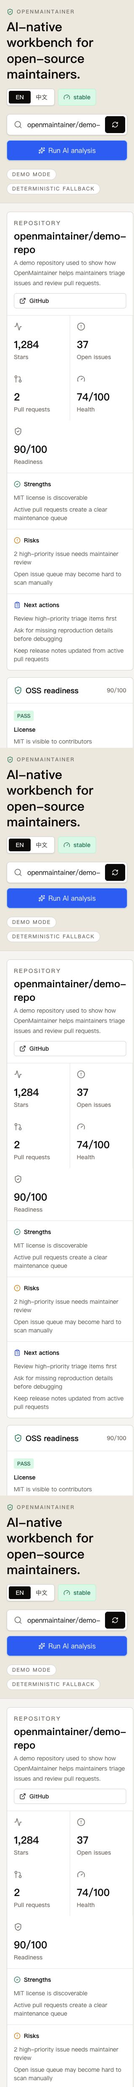
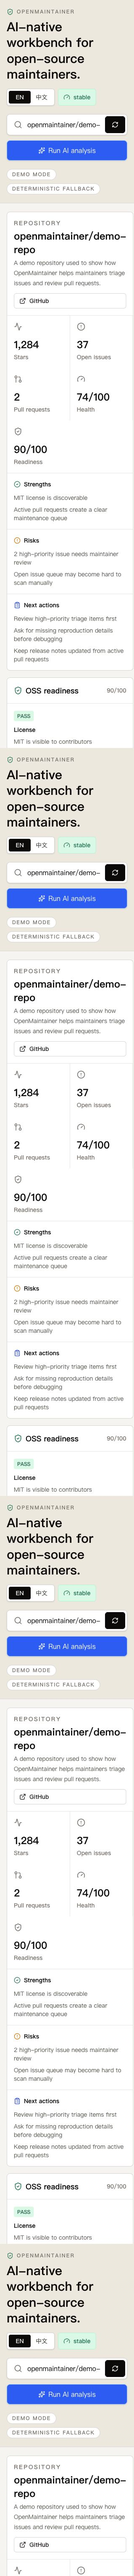
feat: add copyable maintainer action plan

diff --git a/src/components/dashboard.tsx b/src/components/dashboard.tsx
@@ -48,6 +48,7 @@ const copy = {
     queue: "Maintenance queue",
     reviews: "Review desk",
     release: "Release draft",
+    actions: "Action plan",
     ai: "AI copilot",
     health: "Project health",
     readiness: "OSS readiness",
@@ -65,6 +66,7 @@ const copy = {
     queue: "维护队列",
     reviews: "评审台",
     release: "发布草稿",
+    actions: "行动计划",
     ai: "AI 副驾驶",
     health: "项目健康",
     readiness: "开源就绪度",
@@ -108,6 +110,23 @@ function releaseFileName(repository: MaintainerRepository) {
   return `${repository.identity.owner}-${repository.identity.name}-release-draft.md`;
 }
 
+function actionMarkdown(action: MaintainerAnalysis["actions"][number]) {
+  return [
+    `## ${action.title}`,
+    "",
+    `Target: ${action.url}`,
+    `Priority: ${action.priority}`,
+    "",
+    action.summary,
+    "",
+    "### Commands",
+    ...action.commands.map((command) => `- ${command}`),
+    "",
+    "### Draft",
+    action.draft,
+  ].join("\n");
+}
+
 export function Dashboard({
   initialRepository,
   initialAnalysis,
@@ -122,6 +141,7 @@ export function Dashboard({
   const [loadingRepo, setLoadingRepo] = useState(false);
   const [loadingAi, setLoadingAi] = useState(false);
   const [copiedRelease, setCopiedRelease] = useState(false);
+  const [copiedAction, setCopiedAction] = useState<string | null>(null);
   const [locale, setLocale] = useState<Locale>("en");
   const text = copy[locale];
 
@@ -191,6 +211,12 @@ export function Dashboard({
     anchor.download = releaseFileName(repository);
     anchor.click();
     URL.revokeObjectURL(url);
+  }
+
+  async function copyAction(action: MaintainerAnalysis["actions"][number]) {
+    await navigator.clipboard.writeText(actionMarkdown(action));
+    setCopiedAction(action.id);
+    window.setTimeout(() => setCopiedAction(null), 1600);
   }
 
   return (
@@ -466,6 +492,49 @@ export function Dashboard({
         </div>
 
         <aside className="space-y-4">
+          <section className="rounded-lg border border-stone-300 bg-white">
+            <div className="flex items-center justify-between border-b border-stone-200 p-4">
+              <h2 className="flex items-center gap-2 text-lg font-semibold text-stone-950">
+                <ClipboardList className="size-5 text-blue-700" />
+                {text.actions}
+              </h2>
+              <span className="text-sm font-semibold text-stone-500">{analysis.actions.length}</span>
+            </div>
+            <div className="divide-y divide-stone-200">
+              {analysis.actions.map((action) => (
+                <article key={action.id} className="p-4">
+                  <div className="flex items-start justify-between gap-3">
+                    <a
+                      className="min-w-0 text-sm font-semibold leading-5 text-stone-950 hover:text-blue-700"
+                      href={action.url}
+                      target="_blank"
+                      rel="noreferrer"
+                    >
+                      {action.title}
+                    </a>
+                    <span className={`rounded-full border px-2 py-0.5 text-xs font-semibold ${priorityColor(action.priority)}`}>
+                      {action.priority}
+                    </span>
+                  </div>
+                  <p className="mt-2 text-sm leading-6 text-stone-600">{action.summary}</p>
+                  <ul className="mt-3 space-y-1.5 text-sm leading-5 text-stone-600">
+                    {action.commands.map((command) => (
+                      <li key={command}>{command}</li>
+                    ))}
+                  </ul>
+                  <button
+                    onClick={() => copyAction(action)}
+                    className="mt-3 inline-flex h-9 items-center gap-2 rounded-md border border-stone-300 px-3 text-sm font-semibold text-stone-800 hover:bg-stone-100"
+                    title="Copy action"
+                  >
+                    <Copy className="size-4" />
+                    {copiedAction === action.id ? "Copied" : "Copy action"}
+                  </button>
+                </article>
+              ))}
+            </div>
+          </section>
+
           <section className="rounded-lg border border-stone-300 bg-white">
             <div className="flex items-center justify-between border-b border-stone-200 p-4">
               <h2 className="flex items-center gap-2 text-lg font-semibold text-stone-950">

diff --git a/src/lib/maintainer-analysis.ts b/src/lib/maintainer-analysis.ts
@@ -1,6 +1,7 @@
 import type {
   IssueTriage,
   MaintainerAnalysis,
+  MaintainerAction,
   MaintainerIssue,
   MaintainerPullRequest,
   MaintainerRepository,
@@ -266,9 +267,77 @@ function draftReleaseNotes(repository: MaintainerRepository, reviews: PullReques
   return lines.join("\n");
 }
 
+function buildMaintainerActions(
+  repository: MaintainerRepository,
+  triage: IssueTriage[],
+  reviews: PullRequestReview[],
+  releaseNotes: string,
+): MaintainerAction[] {
+  const issueActions = triage
+    .filter((item) => item.priority === "urgent" || item.priority === "high")
+    .map((item) => {
+      const issue = repository.issues.find((candidate) => candidate.number === item.issueNumber);
+      const workflowLabels = item.suggestedLabels.filter((label) => label !== "good-first-response");
+      const contributorLabels = item.suggestedLabels.filter((label) => label === "good-first-response");
+
+      return {
+        id: `issue-${item.issueNumber}-triage`,
+        title: `Triage issue #${item.issueNumber}`,
+        target: "issue" as const,
+        priority: item.priority,
+        url: issue?.url ?? `${repository.identity.url}/issues/${item.issueNumber}`,
+        summary: issue?.title ?? "High-priority issue needs maintainer review",
+        draft: item.maintainerReply,
+        commands: [
+          `Apply labels: ${workflowLabels.join(", ") || "needs-triage"}`,
+          ...contributorLabels.map((label) => `Consider contributor label: ${label}`),
+          item.missingInformation.length > 0
+            ? `Request missing information: ${item.missingInformation.join(", ")}`
+            : "Post maintainer response draft",
+        ],
+      };
+    });
+
+  const reviewActions = reviews
+    .filter((review) => review.risk === "high" || review.risk === "medium")
+    .map((review) => {
+      const pullRequest = repository.pullRequests.find(
+        (candidate) => candidate.number === review.pullRequestNumber,
+      );
+
+      return {
+        id: `pr-${review.pullRequestNumber}-review`,
+        title: `Review PR #${review.pullRequestNumber}`,
+        target: "pull-request" as const,
+        priority: review.risk === "high" ? ("high" as const) : ("normal" as const),
+        url: pullRequest?.url ?? `${repository.identity.url}/pull/${review.pullRequestNumber}`,
+        summary: review.summary,
+        draft: `Focus review on ${review.focusAreas.join(", ")}. Suggested tests: ${review.suggestedTests.join("; ")}.`,
+        commands: [
+          `Check focus areas: ${review.focusAreas.join(", ")}`,
+          `Run tests: ${review.suggestedTests.join("; ")}`,
+        ],
+      };
+    });
+
+  const releaseAction: MaintainerAction = {
+    id: "release-draft",
+    title: "Prepare release draft",
+    target: "release",
+    priority: repository.pullRequests.length > 0 ? "normal" : "low",
+    url: `${repository.identity.url}/releases/new`,
+    summary: `Draft release notes from ${repository.pullRequests.length} open pull requests.`,
+    draft: releaseNotes,
+    commands: ["Copy release draft into GitHub Releases", "Verify merged PRs before publishing"],
+  };
+
+  return [...issueActions, ...reviewActions, releaseAction];
+}
+
 export function analyzeRepository(repository: MaintainerRepository): MaintainerAnalysis {
   const triage = repository.issues.map(classifyIssue);
   const reviews = repository.pullRequests.map(reviewPullRequest);
+  const releaseNotes = draftReleaseNotes(repository, reviews);
 
   return {
     health: computeHealth(repository, triage),
@@ -276,6 +345,7 @@ export function analyzeRepository(repository: MaintainerRepository): MaintainerA
     triage,
     reviews,
     similarIssues: detectSimilarIssues(repository.issues),
-    releaseNotes: draftReleaseNotes(repository, reviews),
+    actions: buildMaintainerActions(repository, triage, reviews, releaseNotes),
+    releaseNotes,
   };
 }

diff --git a/src/lib/openai-analyzer.ts b/src/lib/openai-analyzer.ts
@@ -102,9 +102,27 @@ const analysisSchema = {
         required: ["issueNumbers", "reason", "suggestedAction"],
       },
     },
+    actions: {
+      type: "array",
+      items: {
+        type: "object",
+        additionalProperties: false,
+        properties: {
+          id: { type: "string" },
+          title: { type: "string" },
+          target: { type: "string", enum: ["issue", "pull-request", "release", "repository"] },
+          priority: { type: "string", enum: ["urgent", "high", "normal", "low"] },
+          url: { type: "string" },
+          summary: { type: "string" },
+          draft: { type: "string" },
+          commands: { type: "array", items: { type: "string" } },
+        },
+        required: ["id", "title", "target", "priority", "url", "summary", "draft", "commands"],
+      },
+    },
     releaseNotes: { type: "string" },
   },
-  required: ["health", "readiness", "triage", "reviews", "similarIssues", "releaseNotes"],
+  required: ["health", "readiness", "triage", "reviews", "similarIssues", "actions", "releaseNotes"],
 };
 
 function extractOutputText(response: unknown): string | null {

diff --git a/src/lib/maintainer-analysis.test.ts b/src/lib/maintainer-analysis.test.ts
@@ -68,4 +68,26 @@ describe("analyzeRepository", () => {
       }),
     );
   });
+
+  it("creates maintainer actions that can be copied into the real GitHub workflow", () => {
+    const analysis = analyzeRepository(demoRepository);
+
+    expect(analysis.actions).toContainEqual(
+      expect.objectContaining({
+        id: "issue-284-triage",
+        target: "issue",
+        priority: "high",
+        url: "https://github.com/openmaintainer/demo-repo/issues/284",
+        commands: expect.arrayContaining(["Apply labels: bug, priority/high"]),
+        draft: expect.stringContaining("exact command output"),
+      }),
+    );
+    expect(analysis.actions).toContainEqual(
+      expect.objectContaining({
+        id: "release-draft",
+        target: "release",
+        commands: expect.arrayContaining(["Copy release draft into GitHub Releases"]),
+      }),
+    );
+  });
 });

diff --git a/src/lib/types.ts b/src/lib/types.ts
@@ -92,11 +92,23 @@ export type RepositoryReadiness = {
   checks: ReadinessCheck[];
 };
 
+export type MaintainerAction = {
+  id: string;
+  title: string;
+  target: "issue" | "pull-request" | "release" | "repository";
+  priority: "urgent" | "high" | "normal" | "low";
+  url: string;
+  summary: string;
+  draft: string;
+  commands: string[];
+};
+
 export type MaintainerAnalysis = {
   health: RepositoryHealth;
   readiness: RepositoryReadiness;
   triage: IssueTriage[];
   reviews: PullRequestReview[];
   similarIssues: SimilarIssueCluster[];
+  actions: MaintainerAction[];
   releaseNotes: string;
 };

diff --git a/README.md b/README.md
@@ -34,6 +34,7 @@ OpenMaintainer makes that work visible in one cockpit. AI output is treated as a
 - Repository health score and next actions
 - OSS readiness checklist
 - Similar issue cluster detection
+- Copyable maintainer action plan for issues, pull requests, and release prep
 - Release note draft generator
 - Release draft copy and Markdown download
 - English/Chinese UI switch

diff --git a/docs/architecture.md b/docs/architecture.md
@@ -23,6 +23,7 @@ OpenMaintainer is split into four layers.
 - Repository health score
 - OSS readiness checks
 - Similar issue clusters
+- Copyable maintainer actions for GitHub workflow handoff
 - Release note drafts
 
 This layer is tested with Vitest and must stay usable without network access.

diff --git a/ROADMAP.md b/ROADMAP.md
@@ -9,6 +9,7 @@
 - PR review summaries
 - Release draft generation
 - Similar issue detection
+- Copyable maintainer action plan
 - OSS readiness scoring
 - CI validation
 - OSS documentation and contribution flow
